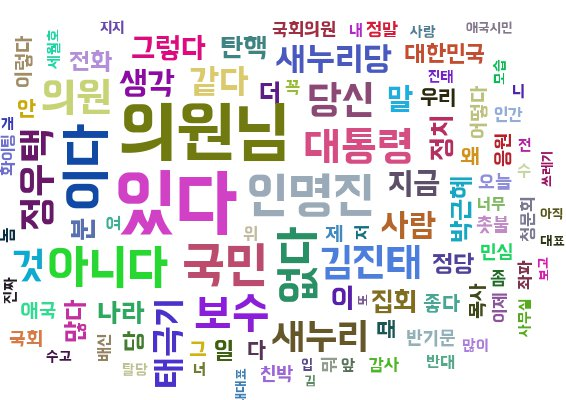
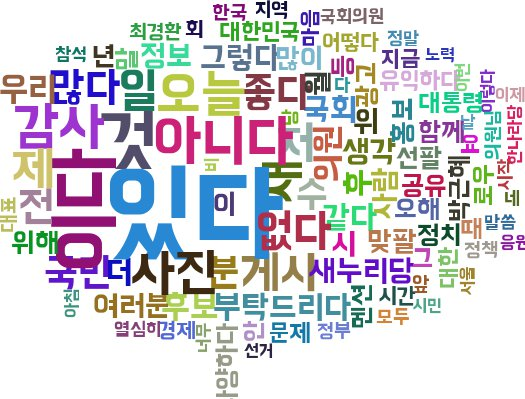
동적으로 선택된 정치인 리스트를 기반으로 버튼 생성

diff --git a/server/app/templates/integration.html b/server/app/templates/integration.html
@@ -110,19 +110,18 @@
     </script>
 
     <script>
-        function button_generate(list, json){
-            data = JSON.parse(json)
-                                                    
+        function button_generate(inclination, json){
+            data = JSON.parse(json);
             var i;
-            for(i=0;i<data['Name'].length;i+=3){
-                if(i+2<data['Name'].length){
-                    $("#"+list).append("<div class='btn-group btn-group-justified col-md-12' role='group'><span class='button-checkbox btn-group' role='group'><button type='button' class='btn' data-color='primary'>"+data['Name'][i]+"</button><input type='checkbox' class='hidden' checked /></span><span class='button-checkbox btn-group' role='group'><button type='button' class='btn' data-color='primary'>"+data['Name'][i+1]+"</button><input type='checkbox' class='hidden' checked /></span><span class='button-checkbox btn-group' role='group'><button type='button' class='btn' data-color='primary'>"+data['Name'][i+2]+"</button><input type='checkbox' class='hidden' checked /></span></div>");
+            for(i=0;i<data.length;i+=3){
+                if(i+2<data.length){
+                    $("#"+inclination).append("<div class='btn-group btn-group-justified col-md-12' role='group'><span class='button-checkbox btn-group' role='group'><button type='button' class='btn' data-color='primary'>"+data[i]+"</button><input type='checkbox' class='hidden' checked /></span><span class='button-checkbox btn-group' role='group'><button type='button' class='btn' data-color='primary'>"+data[i+1]+"</button><input type='checkbox' class='hidden' checked /></span><span class='button-checkbox btn-group' role='group'><button type='button' class='btn' data-color='primary'>"+data[i+2]+"</button><input type='checkbox' class='hidden' checked /></span></div>");
                 }
-                else if(i+1<data['Name'].length){
-                    $("#"+list).append("<div class='btn-group btn-group-justified col-md-12' role='group'><span class='button-checkbox btn-group' role='group'><button type='button' class='btn' data-color='primary'>"+data['Name'][i]+"</button><input type='checkbox' class='hidden' checked /></span><span class='button-checkbox btn-group' role='group'><button type='button' class='btn' data-color='primary'>"+data['Name'][i+1]+"</button><input type='checkbox' class='hidden' checked /></span><span class='button-checkbox btn-group' role='group'><button type='button' class='btn' data-color='primary' disabled>no one</button><input type='checkbox' class='hidden' checked /></span></div>");
+                else if(i+1<data.length){
+                    $("#"+inclination).append("<div class='btn-group btn-group-justified col-md-12' role='group'><span class='button-checkbox btn-group' role='group'><button type='button' class='btn' data-color='primary'>"+data[i]+"</button><input type='checkbox' class='hidden' checked /></span><span class='button-checkbox btn-group' role='group'><button type='button' class='btn' data-color='primary'>"+data[i+1]+"</button><input type='checkbox' class='hidden' checked /></span><span class='button-checkbox btn-group' role='group'><button type='button' class='btn' data-color='primary' disabled>no one</button><input type='checkbox' class='hidden' checked /></span></div>");
                 }
                 else{
-                    $("#"+list).append("<div class='btn-group btn-group-justified col-md-12' role='group'><span class='button-checkbox btn-group' role='group'><button type='button' class='btn' data-color='primary'>"+data['Name'][i]+"</button><input type='checkbox' class='hidden' checked /></span><span class='button-checkbox btn-group' role='group'><button type='button' class='btn' data-color='primary' disabled>no one</button><input type='checkbox' class='hidden' checked /></span><span class='button-checkbox btn-group' role='group'><button type='button' class='btn' data-color='primary' disabled>no one</button><input type='checkbox' class='hidden' checked /></span></div>");
+                    $("#"+inclination).append("<div class='btn-group btn-group-justified col-md-12' role='group'><span class='button-checkbox btn-group' role='group'><button type='button' class='btn' data-color='primary'>"+data[i]+"</button><input type='checkbox' class='hidden' checked /></span><span class='button-checkbox btn-group' role='group'><button type='button' class='btn' data-color='primary' disabled>no one</button><input type='checkbox' class='hidden' checked /></span><span class='button-checkbox btn-group' role='group'><button type='button' class='btn' data-color='primary' disabled>no one</button><input type='checkbox' class='hidden' checked /></span></div>");
                 }
             }
         }
@@ -224,7 +223,7 @@
                                                 </div>
                                                 <br>
                                                 <script>
-                                                    button_generate("left_btn_list", {{ left_people|tojson|safe }});
+                                                    button_generate("left_btn_list", {{ left_select|tojson|safe }});
                                                 </script>
                                             </div>
 
@@ -246,7 +245,7 @@
                                                 </div>
                                                 <br>
                                                 <script>
-                                                    button_generate("right_btn_list", {{ right_people|tojson|safe }});
+                                                    button_generate("right_btn_list", {{ right_select|tojson|safe }});
                                                 </script>
                                             </div>
                                         </div>
@@ -299,15 +298,15 @@
                     <div class="btn-group btn-group-justified" role="group">
 
                         <div class="btn-group" role="group">
-                            <button id="btn-l1" type="button" class="btn btn-primary" onclick="str_html = `{% for word, count in db_left[:20] %}<tr><td width='140'>{{loop.index0 + 1}}</td><td width='205'>{{word}}</td><td width='180'>{{count}}</td></tr>{% endfor %}`;  $('#table_left').html(str_html);">Top 20 Words</button>
+                            <button id="btn-l1" type="button" class="btn btn-primary" onclick="str_html = `{% for word, count in left_freq[:20] %}<tr><td width='140'>{{loop.index0 + 1}}</td><td width='205'>{{word}}</td><td width='180'>{{count}}</td></tr>{% endfor %}`;  $('#table_left').html(str_html);">Top 20 Words</button>
                         </div>
 
                         <div class="btn-group" role="group"> 
-                            <button id="btn-l2" type="button" class="btn btn-default" onclick="str_html = `{% for word, count in db_left[:30] %}<tr><td width='140'>{{loop.index0 + 1}}</td><td width='205'>{{word}}</td><td width='180'>{{count}}</td></tr>{% endfor %}`;  $('#table_left').html(str_html);">Top 30 Words</button>
+                            <button id="btn-l2" type="button" class="btn btn-default" onclick="str_html = `{% for word, count in left_freq[:30] %}<tr><td width='140'>{{loop.index0 + 1}}</td><td width='205'>{{word}}</td><td width='180'>{{count}}</td></tr>{% endfor %}`;  $('#table_left').html(str_html);">Top 30 Words</button>
                         </div>
 
                         <div class="btn-group" role="group">
-                            <button id="btn-l3" type="button" class="btn btn-default" onclick="str_html = `{% for word, count in db_left[:50] %}<tr><td width='140'>{{loop.index0 + 1}}</td><td width='205'>{{word}}</td><td width='180'>{{count}}</td></tr>{% endfor %}`;  $('#table_left').html(str_html);">Top 50 Words</button>
+                            <button id="btn-l3" type="button" class="btn btn-default" onclick="str_html = `{% for word, count in left_freq[:50] %}<tr><td width='140'>{{loop.index0 + 1}}</td><td width='205'>{{word}}</td><td width='180'>{{count}}</td></tr>{% endfor %}`;  $('#table_left').html(str_html);">Top 50 Words</button>
                         </div>
 
                     </div>
@@ -322,7 +321,7 @@
                         </thead>
 
                         <tbody id="table_left">
-                            {% for word, count in db_left[:20] %}
+                            {% for word, count in left_freq[:20] %}
                                 <tr>
                                     <td width="140">{{loop.index0 + 1}}</td>
                                     <td width="205">{{word}}</td>
@@ -352,15 +351,15 @@
                     <div class="btn-group btn-group-justified" role="group">
                         
                         <div class="btn-group" role="group">
-                            <button id="btn-r1" type="button" class="btn btn-primary" onclick="str_html = `{% for word, count in db_right[:20] %}<tr><td width='140'>{{loop.index0 + 1}}</td><td width='205'>{{word}}</td><td width='180'>{{count}}</td></tr>{% endfor %}`;  $('#table_right').html(str_html);">Top 20 Words</button>
+                            <button id="btn-r1" type="button" class="btn btn-primary" onclick="str_html = `{% for word, count in right_freq[:20] %}<tr><td width='140'>{{loop.index0 + 1}}</td><td width='205'>{{word}}</td><td width='180'>{{count}}</td></tr>{% endfor %}`;  $('#table_right').html(str_html);">Top 20 Words</button>
                         </div>
 
                         <div class="btn-group" role="group"> 
-                            <button id="btn-r2" type="button" class="btn btn-default" onclick="str_html = `{% for word, count in db_right[:30] %}<tr><td width='140'>{{loop.index0 + 1}}</td><td width='205'>{{word}}</td><td width='180'>{{count}}</td></tr>{% endfor %}`;  $('#table_right').html(str_html);">Top 30 Words</button>
+                            <button id="btn-r2" type="button" class="btn btn-default" onclick="str_html = `{% for word, count in right_freq[:30] %}<tr><td width='140'>{{loop.index0 + 1}}</td><td width='205'>{{word}}</td><td width='180'>{{count}}</td></tr>{% endfor %}`;  $('#table_right').html(str_html);">Top 30 Words</button>
                         </div>
 
                         <div class="btn-group" role="group">
-                            <button id="btn-r3" type="button" class="btn btn-default" onclick="str_html = `{% for word, count in db_right[:50] %}<tr><td width='140'>{{loop.index0 + 1}}</td><td width='205'>{{word}}</td><td width='180'>{{count}}</td></tr>{% endfor %}`;  $('#table_right').html(str_html);">Top 50 Words</button>
+                            <button id="btn-r3" type="button" class="btn btn-default" onclick="str_html = `{% for word, count in right_freq[:50] %}<tr><td width='140'>{{loop.index0 + 1}}</td><td width='205'>{{word}}</td><td width='180'>{{count}}</td></tr>{% endfor %}`;  $('#table_right').html(str_html);">Top 50 Words</button>
                         </div>
                     </div>
                     <table class="table table-hover">
@@ -373,7 +372,7 @@
                         </thead>
 
                         <tbody id="table_right">
-                            {% for word, count in db_right[:20] %}
+                            {% for word, count in right_freq[:20] %}
                                 <tr>
                                     <td width="140">{{loop.index0 + 1}}</td>
                                     <td width="205">{{word}}</td>
@@ -416,6 +415,29 @@
     </div>
     <!-- /.container -->
 
+    <script>
+        function submit_list(){
+            // name이 같은 체크박스의 값들을 배열에 담는다.
+            var checkboxValues = [];
+            $("input[name='ck']:checked").each(function(i) {
+                checkboxValues.push($(this).val());
+            });
+             
+            // 사용자 ID(문자열)와 체크박스 값들(배열)을 name/value 형태로 담는다.
+            var allData = { "left": checkboxValues "right": checkboxValues};
+             
+            $.ajax({
+                type : "POST",
+                url : "/checkbox",
+                data: JSON.stringify(allData, null, '\t'),
+                contentType: 'application/json;charset=UTF-8',
+                success: function(result) {
+                    console.log(result);
+                    window.location.reload(true);
+                }
+            });
+        }
+    </script>
     
     <script>
         $('#btn-l1').click(function(){

diff --git a/server/app/run.py b/server/app/run.py
@@ -10,112 +10,69 @@ app = Flask(__name__)
 ***REMOVED***
 
 
-# query = "Select * from twitter_reply where Inclination=2"
-# words_left = extract_frequent_words(query, is_repost=True)
-#
-# avg = np.mean(list(zip(*words_left))[1])
-# taglist = pytagcloud.make_tags(words_left[:100], maxsize=13*(words_left[0][1]-avg)/(avg-words_left[99][1]))
-# pytagcloud.create_tag_image(taglist, './static/img/wordcloud_left.jpg', size=(600, 400), fontname='BMHANNA_11yrs_ttf', rectangular=False)
-# print("Left done!")
-#
-#
-# query = "Select * from twitter_reply where Inclination=1"
-# words_right = extract_frequent_words(query, is_repost=True)
-#
-# avg = np.mean(list(zip(*words_right))[1])
-# taglist = pytagcloud.make_tags(words_right[:100], maxsize=13*(words_right[0][1]-avg)/(avg-words_right[99][1]))
-# pytagcloud.create_tag_image(taglist, './static/img/wordcloud_right.jpg', size=(600, 400), fontname='BMHANNA_11yrs_ttf', rectangular=False)
-# print("Right done!")
+left_dic={"김부겸":"hopekbk", "김성식":"okkimss", "김진표":"jinpyo_kim",
+          "문재인":"moonriver365", "민병두":"bdmin1958", "박범계":"bkfire1004",
+          "박영선":"Park_Youngsun", "박원순":"wonsoonpark", "박지원":"jwp615",
+          "송영길":"Bulloger", "안철수":"cheolsoo0919", "안희정":"steelroot",
+          "이재명":"Jaemyung_Lee","정동영":"coreacdy","정세균":"sk0926",
+          "진영":"Chinyoung0413", "천정배":"jb_1000", "추미애":"choomiae",
+          "표창원":"DrPyo"}
+right_dic={"김무성":"kimmoosung","김진태":"jtkim1013","나경원":"Nakw",
+           "남경필":"yesKP","서청원":"scw0403","심재철":"cleanshim",
+           "원유철":"won6767","원희룡":"wonheeryong","이준석":"junseokandylee",
+           "장제원":"Changjewon","정우택":"bigwtc","정진석":"js0904",
+           "최경환":"khwanchoi"}
 
-left_people = [["김부겸","김성식","김진표","문재인","민병두","박범계","박영선",
+left_politician = ["김부겸","김성식","김진표","문재인","민병두","박범계","박영선",
                 "박원순","박지원","송영길","안철수","안희정","이재명","정동영",
-                "정세균","진영","천정배","추미애","표창원"],
-               ["hopekbk","okkimss","jinpyo_kim","moonriver365","bdmin1958",
-                "bkfire1004","Park_Youngsun","wonsoonpark","jwp615","Bulloger",
-                "cheolsoo0919","steelroot","Jaemyung_Lee","coreacdy","sk0926",
-                "Chinyoung0413","jb_1000","choomiae","DrPyo",]]
+                "정세균","진영","천정배","추미애","표창원"]
+left_Screen_Name = ["hopekbk", "okkimss", "jinpyo_kim", "moonriver365",
+                    "bdmin1958", "bkfire1004", "Park_Youngsun", "wonsoonpark",
+                    "jwp615", "Bulloger", "cheolsoo0919", "steelroot",
+                    "Jaemyung_Lee","coreacdy","sk0926", "Chinyoung0413",
+                    "jb_1000", "choomiae", "DrPyo"]
 
-right_people = [["김무성","김진태","나경원","남경필","서청원","심재철","원유철",
-                 "원희룡","이준석","장제원","정우택","정진석","최경환",],
-                ["kimmoosung","jtkim1013","Nakw","yesKP","scw0403","cleanshim",
-                 "won6767","wonheeryong","junseokandylee","Changjewon","bigwtc",
-                 "js0904","khwanchoi",]]
+right_politician = ["김무성","김진태","나경원","남경필","서청원","심재철","원유철",
+                 "원희룡","이준석","장제원","정우택","정진석","최경환"]
+right_Screen_Name = ["kimmoosung","jtkim1013","Nakw","yesKP","scw0403",
+                    "cleanshim","won6767","wonheeryong","junseokandylee",
+                    "Changjewon","bigwtc","js0904","khwanchoi"]
+
+left_select = left_politician
+right_select = right_politician
+
+
 
 
 @app.route('/')
 def main():
-    with open('./static/json/init_left.json', 'r') as fp:
-        left_word = json.load(fp=fp)
-    with open('./static/json/init_right.json', 'r') as fp:
-        right_word = json.load(fp=fp)
-    left_p = {'Name': left_people[0],
-            'Screen_Name': left_people[1]}
-    right_p = {'Name': right_people[0],
-              'Screen_Name': right_people[1]}
+    left_word = get_frequent_words(left_Screen_Name, ["left_frequency", "left_reply_frequency"])
+    avg = np.mean(list(zip(*left_word))[1])
+    taglist = pytagcloud.make_tags(left_word[:100],
+                                   maxsize=13 * (left_word[0][1] - avg) / (avg - left_word[99][1]))
+    pytagcloud.create_tag_image(taglist, './static/img/wordcloud_left.jpg', size=(600, 400),
+                                fontname='BMHANNA_11yrs_ttf', rectangular=False)
+    print("Left done!")
 
-    return render_template('integration.html', db_left=left_word, db_right=right_word,
-                           left_people=json.dumps(left_p), right_people=json.dumps(right_p, ensure_ascii=False))
+    right_word = get_frequent_words(right_Screen_Name, ["right_frequency", "right_reply_frequency"])
+    avg = np.mean(list(zip(*right_word))[1])
+    taglist = pytagcloud.make_tags(right_word[:100],
+                                   maxsize=13 * (right_word[0][1] - avg) / (avg - right_word[99][1]))
+    pytagcloud.create_tag_image(taglist, './static/img/wordcloud_right.jpg', size=(600, 400),
+                                fontname='BMHANNA_11yrs_ttf', rectangular=False)
+    print("Right done!")
 
-@app.route('/politician')
-def politician():
-    with open('./static/json/init_left_politician.json', 'r') as fp:
-        left_word = json.load(fp=fp)
-    with open('./static/json/init_right_politician.json', 'r') as fp:
-        right_word = json.load(fp=fp)
-
-    return render_template('politician.html', db_left=left_word, db_right=right_word)
-
-@app.route('/reply')
-def reply():
-    with open('./static/json/init_left_reply.json', 'r') as fp:
-        left_word = json.load(fp=fp)
-    with open('./static/json/init_right_reply.json', 'r') as fp:
-        right_word = json.load(fp=fp)
-
-    return render_template('reply.html', db_left=left_word, db_right=right_word)
+    return render_template('integration.html', left_freq=left_word, right_freq=right_word,
+                           left_select=json.dumps(left_select),
+                           right_select=json.dumps(right_select))
 
 
-@app.route('/plist', methods=["GET", "POST"])
-def politician_list():
-    dict = {'left':left_people,
-            'right':right_people}
-    return json.dumps(dict, ensure_ascii=False)
-
-@app.route('/check_box', methods=["GET", "POST"])
-# url =/aaaaa?param1='문재인'&param2='
+@app.route('/checkbox', methods=["GET", "POST"])
 def check_box():
     if request.method == 'POST':
-        left_word = get_frequent_words(left_people, ["left_reply_frequency"])
-        with open('./static/json/result.json', 'w') as fp:
-            json.dumps(obj=left_word, fp=fp)
-
-
-    return ;
+        left_select = request.json["left"]
+        right_select = request.json["right"]
+    return str(request.json);
 
 if __name__ == '__main__':
-
-
-    # left_word = get_frequent_words(left_people[1], ["left_frequency", "left_reply_frequency"])
-    # right_word = get_frequent_words(right_people[1], ["right_frequency", "right_reply_frequency"])
-    # with open('./static/json/init_left.json', 'w') as fp:
-    #     json.dump(obj=left_word, fp=fp)
-    # with open('./static/json/init_right.json', 'w') as fp:
-    #     json.dump(obj=right_word, fp=fp)
-    #
-    # left_word = get_frequent_words(left_people[1], ["left_frequency"])
-    # right_word = get_frequent_words(right_people[1], ["right_frequency"])
-    # with open('./static/json/init_left_politician.json', 'w') as fp:
-    #     json.dump(obj=left_word, fp=fp)
-    # with open('./static/json/init_right_politician.json', 'w') as fp:
-    #     json.dump(obj=right_word, fp=fp)
-    #
-    # left_word = get_frequent_words(left_people[1], ["left_reply_frequency"])
-    # right_word = get_frequent_words(right_people[1], ["right_reply_frequency"])
-    # with open('./static/json/init_left_reply.json', 'w') as fp:
-    #     json.dump(obj=left_word, fp=fp)
-    # with open('./static/json/init_right_reply.json', 'w') as fp:
-    #     json.dump(obj=right_word, fp=fp)
-
-
-
     app.run()
